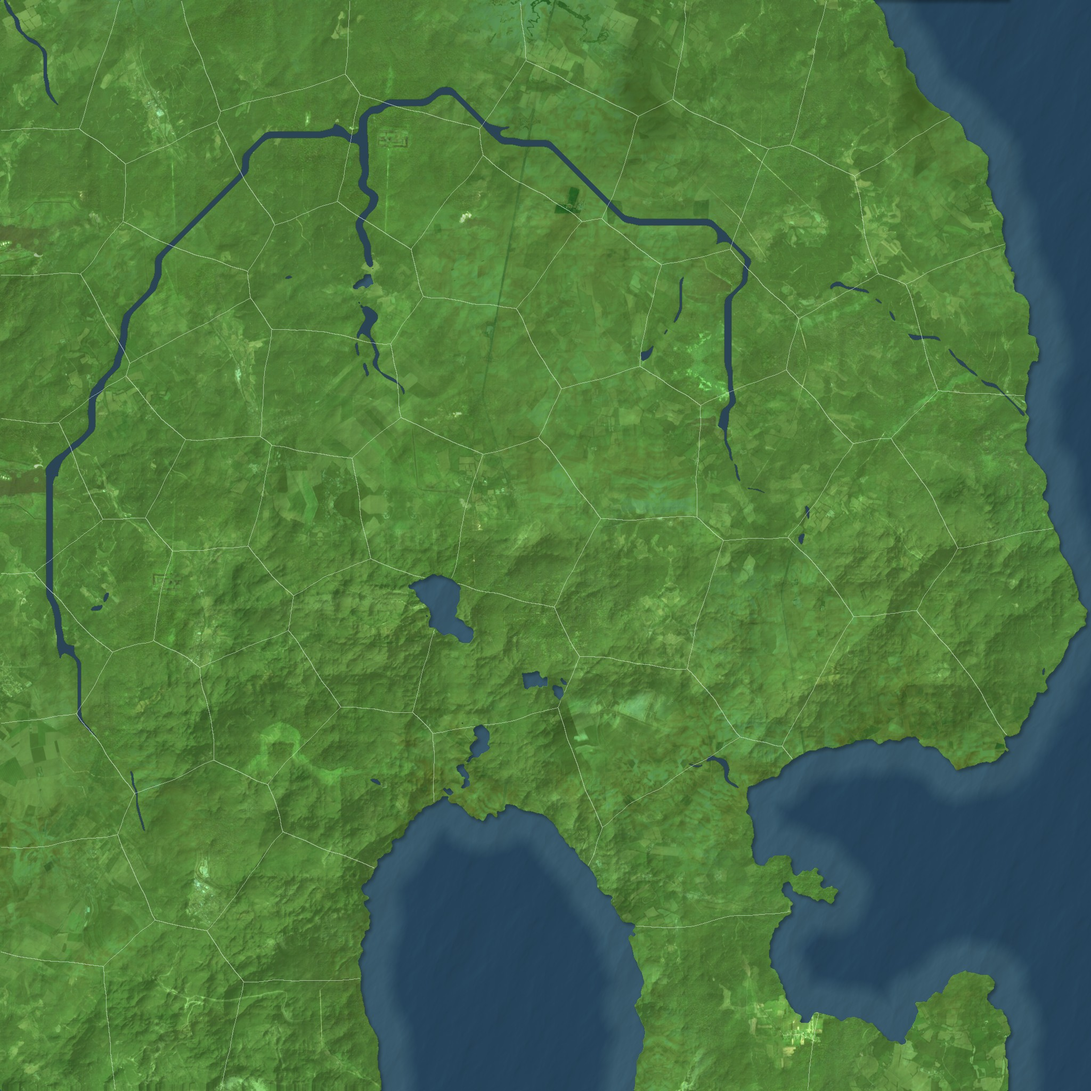
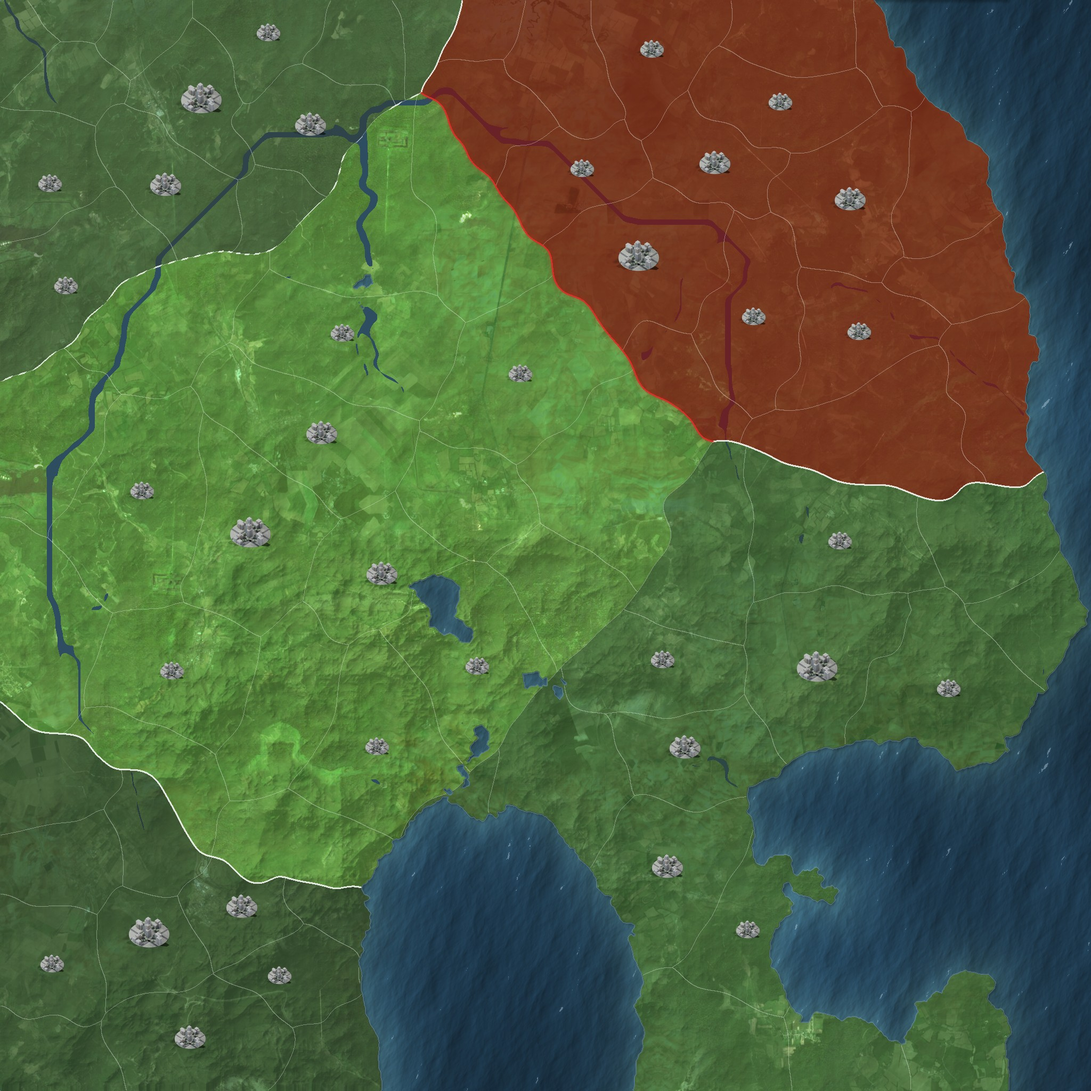
Map: nations sized 5-9 cities with provinces scaled to nation size, borders show relations (ally none, passage dashed, neutral white, enemy red), calmer realistic sea, city markers
Claude-Session: https://claude.ai/code/session_014nGi4eSs3FWdL2Rsq4Dqkd

diff --git a/ci/map/satmap.py b/ci/map/satmap.py
@@ -51,29 +51,103 @@ tot = sum(W.values()) + 1e-6
 ground = sum(L[k] * (W[k] / tot)[..., None] for k in W)
 ground *= (0.78 + 0.35 * shade[..., None])                 # real relief light: geography shows when zoomed
 
-# sea: plain deep blue, lighter shallow band, faint waves
+# ---------- sea ----------
+YY, XX = np.mgrid[0:S, 0:S]
 dist = ndi.distance_transform_edt(~land)
-band = np.clip(1 - (dist - S * 0.02) / (S * 0.015), 0, 1)[..., None]
-deep = np.array([0.15, 0.27, 0.36]); shallow = np.array([0.22, 0.35, 0.42])
-sea = deep * (1 - band) + shallow * band
+halo = np.exp(-dist / (S * 0.022))[..., None]                     # soft lighter water near every coast
+deep = np.array([0.13, 0.25, 0.34]); shallow = np.array([0.24, 0.40, 0.46])
+sea = deep * (1 - halo) + shallow * halo
+far = np.clip(dist / (S * 0.3), 0, 1)[..., None]
+sea *= (1 - 0.12 * far)                                            # open ocean a touch darker
+broad = ndi.gaussian_filter(rng.random((S // 64, S // 64)), 1.5)
+broad = ndi.zoom(broad, S / broad.shape[0], order=1)[:S, :S]
+sea *= (0.94 + 0.12 * (broad - broad.mean()) / (broad.std() + 1e-6) * 0.5)[..., None]
 tile_p = 'art/map/ocean_normals.png'
 if os.path.exists(tile_p):
-    n = np.asarray(Image.open(tile_p).convert('RGB').resize((S // 6, S // 6), Image.LANCZOS)).astype(np.float32) / 255
-    n = np.tile(n, (7, 7, 1))[:S, :S]
-    lit = (n[..., 1] - n[..., 0]) * 0.5
-    sea = sea * (1 + lit[..., None] * 0.8)
-shadow = ndi.gaussian_filter(np.roll(np.roll(land.astype(np.float32), 5, 0), 4, 1), 3) * (~land)
-sea *= (1 - 0.3 * shadow[..., None])
+    src = Image.open(tile_p).convert('RGB')
+    def waves(t, ang, off):
+        a = np.asarray(src.resize((t, t), Image.LANCZOS)).astype(np.float32) / 255
+        c, s_ = np.cos(np.radians(ang)), np.sin(np.radians(ang))
+        u = ((XX * c - YY * s_ + off) % t).astype(int); v = ((XX * s_ + YY * c + off) % t).astype(int)
+        n = a[v, u]
+        return (n[..., 1] - 0.5) - (n[..., 0] - 0.5)            # light from the top left
+    w = waves(S // 9, 0, 0) * 0.6 + waves(int(S / 9 * 1.41), 23, 157) * 0.4
+    w = w / (np.abs(w).mean() + 1e-6)
+    sea *= (1 + 0.055 * w[..., None])                              # fine waves: visible up close, calm from afar
+    glint = (w > np.percentile(w, 99.85)) & (dist > 6)
+    sea[glint] = sea[glint] * 0.6 + 0.4 * np.array([0.75, 0.82, 0.85])
+shadow = ndi.gaussian_filter(np.roll(np.roll(land.astype(np.float32), 4, 0), 3, 1), 2.5) * (~land)
+sea *= (1 - 0.28 * shadow[..., None])
+rim = ndi.binary_dilation(land, iterations=2) & ~land
+sea[rim] = sea[rim] * 0.75 + 0.25 * np.array([0.7, 0.78, 0.8])   # thin light rim where water meets land
 
 img = np.where(land[..., None], ground, sea)
 riv = river & land
-img[riv] = np.array([0.17, 0.27, 0.34])
-img[ndi.binary_dilation(riv) & ~riv & land] *= 0.8
-# provinces and nations, thin white lines
-pid_img = np.asarray(Image.open('art/map/provinces.png').convert('RGB')).astype(np.int32)
-pid = pid_img[..., 0] + pid_img[..., 1] * 256
-pb = ((pid != np.roll(pid, 1, 0)) | (pid != np.roll(pid, 1, 1))) & ndi.binary_erosion(land, iterations=2)
-img[pb] = img[pb] * 0.45 + 0.55 * np.array([0.95, 0.97, 0.95])
-img = np.clip(img, 0, 1)
-Image.fromarray((img * 255).astype(np.uint8)).save(OUT, quality=90)
+riv = ndi.binary_erosion(riv) | (riv & (ndi.distance_transform_edt(riv) >= 1) & (ndi.gaussian_filter(riv.astype(float), 1) > 0.7))
+img[riv] = np.array([0.17, 0.28, 0.35])
+
+# ---------- nations, provinces and relation borders ----------
+def ids(path):
+    a = np.asarray(Image.open(path).convert('RGB')).astype(np.int32)
+    return a[..., 0] + a[..., 1] * 256 - 1
+POL = os.environ.get('POLITICAL', 'art/map')
+nation = ids(os.path.join(POL, 'nations.png')); province = ids(os.path.join(POL, 'provinces.png'))
+ME = int(os.environ.get('ME', '4'))
+REL = {int(k): v for k, v in (x.split(':') for x in os.environ.get('RELATIONS', '0:ally,1:passage,2:enemy,3:neutral').split(','))}
+TINT = {'me': (1.06, 1.06, 1.0), 'ally': (0.92, 1.0, 0.92), 'passage': (0.86, 0.9, 0.86), 'neutral': (0.78, 0.82, 0.8), 'enemy': (0.95, 0.66, 0.6)}
+rel_of = lambda k: 'me' if k == ME else REL.get(k, 'neutral')
+MIX = {'enemy': ((0.55, 0.05, 0.05), 0.62), 'neutral': ((0.10, 0.16, 0.13), 0.38), 'passage': ((0.14, 0.22, 0.17), 0.22), 'ally': ((0.10, 0.30, 0.12), 0.25)}
+for k in np.unique(nation[nation >= 0]):
+    m = nation == k; r = rel_of(int(k))
+    if r == 'me':
+        img[m] = np.clip(img[m] * 1.08, 0, 1)
+    else:
+        col, a = MIX[r]
+        g = img[m].mean(-1, keepdims=True)
+        img[m] = (img[m] * 0.5 + g * 0.5) * (1 - a) + np.array(col) * a + (img[m] - g) * 0.15
+def edges(a):
+    e = np.zeros_like(a, bool)
+    e[1:] |= a[1:] != a[:-1]; e[:, 1:] |= a[:, 1:] != a[:, :-1]
+    return e & land & ndi.binary_erosion(land, iterations=1)
+pe = edges(province)
+img[pe] = img[pe] * 0.62 + 0.38 * np.array([0.95, 0.97, 0.95])   # thin province outline
+ne = edges(nation)
+def pair_rel(mask):
+    """relation of the border: the foreign side's relation to me (borders between two foreign nations: neutral)."""
+    out = np.full(mask.shape, 'neutral', object)
+    ys, xs = np.where(mask)
+    for y, x in zip(ys, xs):
+        a = nation[y, x]; b = nation[max(y - 1, 0), x] if nation[max(y - 1, 0), x] != a else nation[y, max(x - 1, 0)]
+        if ME in (a, b): out[y, x] = rel_of(int(b if a == ME else a))
+    return out
+rel = pair_rel(ne)
+for kind in ('neutral', 'passage', 'enemy'):
+    m = ne & (rel == kind)
+    if kind == 'neutral':
+        m = ndi.binary_dilation(m) & land
+        img[m] = img[m] * 0.15 + 0.85 * np.array([0.97, 0.98, 0.96])          # standard: solid white
+    elif kind == 'passage':
+        m = ndi.binary_dilation(m) & land & (((XX + YY) // 9) % 2 == 0)
+        img[m] = img[m] * 0.2 + 0.8 * np.array([0.97, 0.98, 0.96])            # right of passage: dashed white
+    else:
+        glow = ndi.gaussian_filter(ndi.binary_dilation(m, iterations=2).astype(float), 4) * land
+        img *= (1 - 0.25 * glow[..., None]) + 0 * glow[..., None]
+        img[..., 0] += 0.25 * glow
+        m2 = ndi.binary_dilation(m, iterations=1) & land
+        img[m2] = img[m2] * 0.1 + 0.9 * np.array([0.85, 0.18, 0.15])          # enemy: red line with a glow
+# allies: no national border at all, only the normal province outline
+
+# cities: real 3D city renders at each city province
+import json
+pol = json.load(open(os.path.join(POL, 'political.json')))
+icon = Image.open('art/render/city_big.png').convert('RGBA') if os.path.exists('art/render/city_big.png') else None
+out = Image.fromarray((np.clip(img, 0, 1) * 255).astype(np.uint8)).convert('RGBA')
+if icon:
+    for p in pol['provinces']:
+        if p['city'] == 'rural': continue
+        size = {'capital': 110, 'major': 84, 'minor': 64}[p['city']]
+        ic = icon.resize((size, size), Image.LANCZOS)
+        x, y = int(p['centre'][0]), int(p['centre'][1])
+        out.alpha_composite(ic, (max(0, x - size // 2), max(0, y - size // 2)))
+out.convert('RGB').save(OUT, quality=90)
 print('saved', OUT)

diff --git a/ci/map/political.py b/ci/map/political.py
@@ -1,0 +1,103 @@
+# Divides the land into nations and provinces. Bigger nations get more provinces and more cities
+# (5 to 9), every province has a minimum size, borders wiggle naturally.
+# Output: art/map/nations.png, art/map/provinces.png (ids in R+G), art/map/political.json
+import json, os, sys
+import numpy as np
+from PIL import Image
+from scipy import ndimage as ndi
+from scipy.spatial import cKDTree
+MASKS, OUT = sys.argv[1], sys.argv[2]
+N_NATIONS = int(os.environ.get('NATIONS', '5'))
+PROV_PER_CITY = float(os.environ.get('PROV_PER_CITY', '2.2'))
+rng = np.random.default_rng(int(os.environ.get('SEED', '4')))
+land = np.load(MASKS)['land']
+S = land.shape[0]
+
+def smooth_noise(cells, amp):
+    g = rng.random((cells + 3, cells + 3))
+    return (ndi.zoom(g, S / cells, order=3)[:S, :S] - 0.5) * amp
+YY, XX = np.mgrid[0:S, 0:S].astype(np.float32)
+# warp the coordinates so every border wiggles like a real one
+WY = YY + smooth_noise(10, 120) + smooth_noise(40, 30)
+WX = XX + smooth_noise(10, 120) + smooth_noise(40, 30)
+L = np.argwhere(land)
+
+def farthest_points(mask_idx, k, weights=None):
+    pts = [mask_idx[rng.integers(len(mask_idx))]]
+    d = np.full(len(mask_idx), np.inf)
+    for _ in range(k - 1):
+        d = np.minimum(d, ((mask_idx - pts[-1]) ** 2).sum(1))
+        pts.append(mask_idx[np.argmax(d * (rng.random(len(d)) * 0.4 + 0.8))])
+    return np.array(pts, float)
+
+def assign(mask, seeds, power=None):
+    idx = np.argwhere(mask)
+    q = np.stack([WY[mask], WX[mask]], 1)
+    if power is None:
+        _, lab = cKDTree(seeds).query(q)
+    else:
+        d = ((q[:, None, :] - seeds[None]) ** 2).sum(-1) - power[None]
+        lab = d.argmin(1)
+    out = np.full((S, S), -1, np.int32); out[idx[:, 0], idx[:, 1]] = lab
+    return out
+
+def relax(mask, seeds, it=4):
+    for _ in range(it):
+        lab = assign(mask, seeds)
+        for k in range(len(seeds)):
+            m = lab == k
+            if m.any(): seeds[k] = [YY[m].mean(), XX[m].mean()]
+    return seeds
+
+# nations: different sizes on purpose (power diagram weights)
+small = land[::4, ::4]; sidx = np.argwhere(small) * 4
+nat_seeds = farthest_points(sidx, N_NATIONS)
+weights = rng.uniform(0, (S * 0.18) ** 2, N_NATIONS)
+nation = assign(land, nat_seeds, weights)
+# keep only the largest connected piece of each nation; islands go to the nearest neighbour
+for k in range(N_NATIONS):
+    lab, n = ndi.label(nation == k)
+    if n > 1:
+        sizes = ndi.sum(np.ones_like(lab), lab, range(1, n + 1)); keep = 1 + np.argmax(sizes)
+        nation[(lab > 0) & (lab != keep)] = -2
+fill = nation == -2
+if fill.any():
+    good = nation >= 0
+    _, (iy, ix) = ndi.distance_transform_edt(~good, return_indices=True)
+    nation[fill] = nation[iy[fill], ix[fill]]
+
+areas = np.array([(nation == k).sum() for k in range(N_NATIONS)])
+order = np.argsort(areas)
+cities_n = {int(k): int(round(5 + 4 * r / max(N_NATIONS - 1, 1))) for r, k in enumerate(order)}   # 5..9 by size
+province = np.full((S, S), -1, np.int32)
+info = {'nations': [], 'provinces': [], 'size': S}
+pid = 0
+for k in range(N_NATIONS):
+    m = nation == k
+    n_prov = max(cities_n[k] + 3, int(round(cities_n[k] * PROV_PER_CITY)))
+    idx = np.argwhere(m[::4, ::4]) * 4
+    seeds = relax(m, farthest_points(idx, n_prov), 4)
+    lab = assign(m, seeds)
+    sizes = np.array([(lab == j).sum() for j in range(n_prov)])
+    # cities: the provinces nearest the nation's centre and spread out; the biggest-centre one is the capital
+    centre = seeds.mean(0)
+    score = -((seeds - centre) ** 2).sum(1) ** 0.5 * 0.4 + sizes ** 0.5
+    chosen = []
+    for j in np.argsort(-score):
+        if all(((seeds[j] - seeds[c]) ** 2).sum() ** 0.5 > S * 0.06 for c in chosen): chosen.append(int(j))
+        if len(chosen) == cities_n[k]: break
+    for j in range(n_prov):
+        province[lab == j] = pid
+        kind = 'capital' if chosen and j == chosen[0] else ('major' if j in chosen[1:3] else ('minor' if j in chosen else 'rural'))
+        info['provinces'].append({'id': pid, 'nation': k, 'centre': [float(seeds[j][1]), float(seeds[j][0])], 'city': kind, 'area': int(sizes[j])})
+        pid += 1
+    info['nations'].append({'id': k, 'area': int(areas[k]), 'cities': cities_n[k], 'provinces': n_prov})
+    print('nation', k, 'area', areas[k], 'cities', cities_n[k], 'provinces', n_prov)
+
+def save_ids(a, path):
+    a = np.where(a < 0, 0, a + 1)
+    Image.fromarray(np.stack([a % 256, a // 256, np.zeros_like(a)], -1).astype(np.uint8)).save(path)
+save_ids(nation, os.path.join(OUT, 'nations.png'))
+save_ids(province, os.path.join(OUT, 'provinces.png'))
+json.dump(info, open(os.path.join(OUT, 'political.json'), 'w'))
+print('provinces', pid)
